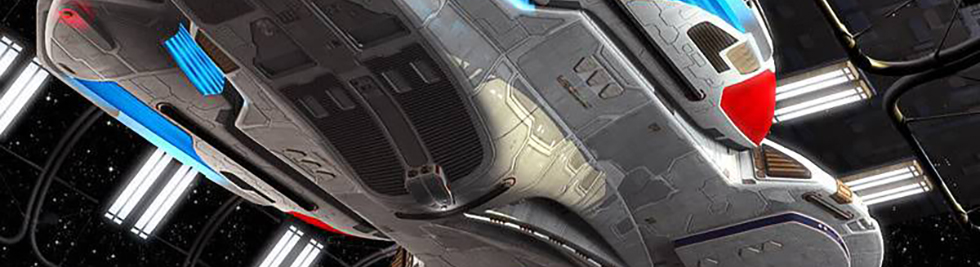
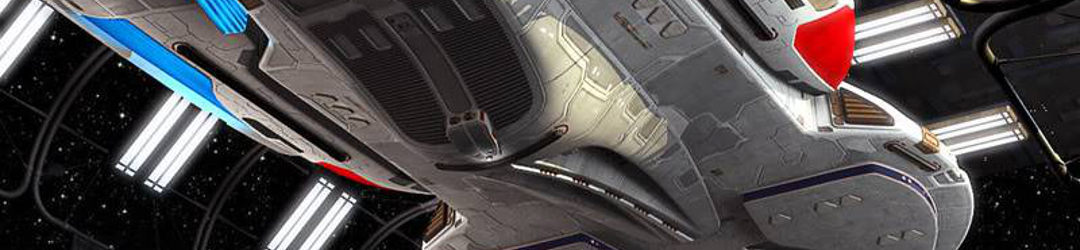
Fixing hero sections

diff --git a/template/specs.php b/template/specs.php
@@ -10,7 +10,7 @@ get_header(); ?>
 
 <body <?php body_class(); ?>>
    <div class="container specs">
-      <div class="hero"><img src="/wp-content/themes/diligent/images/diligent-msd.png" /></div>
+      <div class="hero"><img src="/wp-content/themes/diligent/images/diligent-msd-hero.jpg" /></div>
       <div class="intro section">
          <h1 class="text-center"><span class="heavy">DILIGENT</span>-class</span></h1>
          <p class="text-center">The <em>Diligent</em> is a Diligent-class starship built to serve Starfleet as a  short-range explorer, diplomatic transport, and combat escort.</p>

diff --git a/template/enlist.php b/template/enlist.php
@@ -20,7 +20,7 @@ These could be SPANs or DIVs and with entirely different classes.
 
 <div id="primary" class="site-content">
 
-<div class="hero"><img src="/wp-content/themes/diligent/images/academy.png" /></div>
+<div class="hero"><img src="/wp-content/themes/diligent/images/academy.jpg" /></div>
 
 <div class="intro section">
       <h1 class="text-center"><span class="heavy">JOIN</span> the Diligent</h1>
